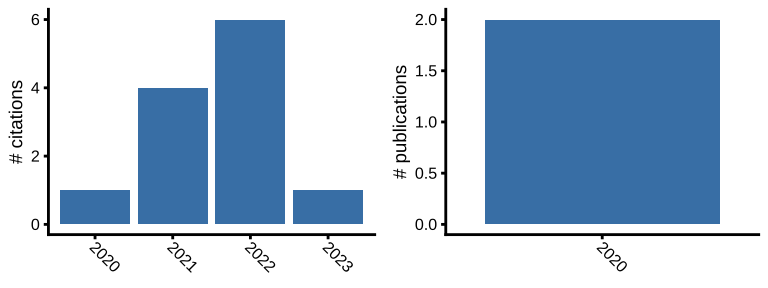
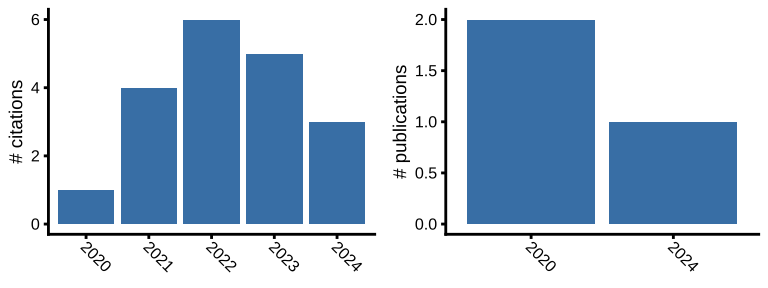
update 08/2024

diff --git a/publications.html b/publications.html
@@ -13,7 +13,7 @@
 
 <title>Publications</title>
 
-<script src="site_libs/header-attrs-2.25/header-attrs.js"></script>
+<script src="site_libs/header-attrs-2.27/header-attrs.js"></script>
 <script src="site_libs/jquery-3.6.0/jquery-3.6.0.min.js"></script>
 <meta name="viewport" content="width=device-width, initial-scale=1" />
 <link href="site_libs/bootstrap-3.3.5/css/cosmo.min.css" rel="stylesheet" />
@@ -337,7 +337,7 @@ $(document).ready(function () {
 <div class="publication">
 <table class="table table-striped table-hover" style="margin-left: auto; margin-right: auto;">
 <caption>
-22 publications (co-)authored by Dr. Lukas Schrader as of Oct 13 2023
+26 publications (co-)authored by Dr. Lukas Schrader as of Aug 19 2024
 (<a href="https://scholar.google.de/citations?user=sH4_TPkAAAAJ">google
 scholar</a>)
 </caption>
@@ -358,6 +358,66 @@ Year
 </tr>
 </thead>
 <tbody>
+<tr>
+<td style="text-align:left;">
+Evolutionary genomics of socially polymorphic populations of
+Pogonomyrmex californicus
+</td>
+<td style="text-align:left;">
+M Errbii, UR Ernst, A Lajmi, E Privman, J Gadau, L Schrader
+</td>
+<td style="text-align:left;">
+BMC biology
+</td>
+<td style="text-align:right;">
+2024
+</td>
+</tr>
+<tr>
+<td style="text-align:left;">
+Queen loss fails to elicit physiological and transcriptional responses
+in workers of the invasive garden ant Lasius neglectus
+</td>
+<td style="text-align:left;">
+M Majoe, N Stolarek, J Vizueta, Z Xiong, L Schrader, JJ Boomsma, …
+</td>
+<td style="text-align:left;">
+bioRxiv
+</td>
+<td style="text-align:right;">
+2024
+</td>
+</tr>
+<tr>
+<td style="text-align:left;">
+Causes and consequences of a complex recombinational landscape in the
+ant Cardiocondyla obscurior
+</td>
+<td style="text-align:left;">
+M Errbii, J Gadau, K Becker, L Schrader, J Oettler
+</td>
+<td style="text-align:left;">
+Genome Research
+</td>
+<td style="text-align:right;">
+2024
+</td>
+</tr>
+<tr>
+<td style="text-align:left;">
+Molecular identification of polymorphic transposable elements in
+populations of the invasive ant Cardiocondyla obscurior
+</td>
+<td style="text-align:left;">
+E Van Den Bos, J Gadau, L Schrader
+</td>
+<td style="text-align:left;">
+Biology Methods and Protocols
+</td>
+<td style="text-align:right;">
+2024
+</td>
+</tr>
 <tr>
 <td style="text-align:left;">
 The role of cuticular hydrocarbons in intraspecific aggression in the
@@ -427,7 +487,7 @@ species
 L Schrader, H Pan, M Bollazzi, M Schiøtt, FJ Larabee, X Bi, Y Deng, …
 </td>
 <td style="text-align:left;">
-Nature communications
+Nature Communications
 </td>
 <td style="text-align:right;">
 2021
@@ -451,21 +511,6 @@ Molecular Ecology
 </tr>
 <tr>
 <td style="text-align:left;">
-Genome assembly and annotation of the California harvester ant
-Pogonomyrmex californicus
-</td>
-<td style="text-align:left;">
-J Bohn, R Halabian, L Schrader, V Shabardina, R Steffen, Y Suzuki, …
-</td>
-<td style="text-align:left;">
-G
-</td>
-<td style="text-align:right;">
-2021
-</td>
-</tr>
-<tr>
-<td style="text-align:left;">
 Inhibition of HSP90 causes morphological variation in the invasive ant
 Cardiocondyla obscurior
 </td>
@@ -482,14 +527,14 @@ evolution
 </tr>
 <tr>
 <td style="text-align:left;">
-Genomic architecture and evolutionary dynamics of a social niche
-polymorphism in the California harvester ant, Pogonomyrmex californicus
+Genome assembly and annotation of the California harvester ant
+Pogonomyrmex californicus
 </td>
 <td style="text-align:left;">
-M Errbii, UR Ernst, A Lajmi, J Gadau, L Schrader
+J Bohn, R Halabian, L Schrader, V Shabardina, R Steffen, Y Suzuki, …
 </td>
 <td style="text-align:left;">
-bioRxiv
+G
 </td>
 <td style="text-align:right;">
 2021
@@ -592,7 +637,7 @@ differentiation cascade
 A Klein, E Schultner, H Lowak, L Schrader, J Heinze, L Holman, J Oettler
 </td>
 <td style="text-align:left;">
-PLoS Genetics
+PLoS genetics
 </td>
 <td style="text-align:right;">
 2016
@@ -687,6 +732,19 @@ The Plant cell
 2012
 </td>
 </tr>
+<tr>
+<td style="text-align:left;">
+17-DMAG
+</td>
+<td style="text-align:left;">
+L Schrader, M Winter, M Errbii, J Delabie, J Oettler, J Gadau
+</td>
+<td style="text-align:left;">
+</td>
+<td style="text-align:right;">
+NA
+</td>
+</tr>
 </tbody>
 </table>
 </div>
@@ -703,7 +761,7 @@ The Plant cell
 <div class="publication">
 <table class="table table-striped table-hover" style="margin-left: auto; margin-right: auto;">
 <caption>
-2 publications (co-)authored by Esther van den Bos as of Oct 13 2023 (<a
+3 publications (co-)authored by Esther van den Bos as of Aug 19 2024 (<a
 href="https://scholar.google.de/citations?user=KtFmcBIAAAAJ">google
 scholar</a>)
 </caption>
@@ -724,6 +782,21 @@ Year
 </tr>
 </thead>
 <tbody>
+<tr>
+<td style="text-align:left;">
+Molecular identification of polymorphic transposable elements in
+populations of the invasive ant cardiocondyla obscurior
+</td>
+<td style="text-align:left;">
+E Van Den Bos, J Gadau, L Schrader
+</td>
+<td style="text-align:left;">
+Biology Methods and Protocols, bpae
+</td>
+<td style="text-align:right;">
+2024
+</td>
+</tr>
 <tr>
 <td style="text-align:left;">
 Knockout mouse models reveal the contributions of G protein subunits to
@@ -751,6 +824,58 @@ JoVE (Journal of Visualized Experiments), e
 </td>
 <td style="text-align:right;">
 2020
+</td>
+</tr>
+</tbody>
+</table>
+</div>
+</div>
+</div>
+<div id="janina-rinke" class="section level3">
+<h3>Janina Rinke</h3>
+<div id="section-5" class="section level4">
+<h4></h4>
+<p><img src="publications_files/figure-html/unnamed-chunk-5-1.png" width="384" /></p>
+</div>
+<div id="section-6" class="section level4">
+<h4></h4>
+<div class="publication">
+<table class="table table-striped table-hover" style="margin-left: auto; margin-right: auto;">
+<caption>
+1 publications (co-)authored by Janina Rinke as of Aug 19 2024 (<a
+href="https://scholar.google.de/citations?user=VBvt6QYAAAAJ">google
+scholar</a>)
+</caption>
+<thead>
+<tr>
+<th style="text-align:left;">
+Title
+</th>
+<th style="text-align:left;">
+Authors
+</th>
+<th style="text-align:left;">
+Journal
+</th>
+<th style="text-align:right;">
+Year
+</th>
+</tr>
+</thead>
+<tbody>
+<tr>
+<td style="text-align:left;">
+Conserved worker policing in African carpenter ants with drastically
+different egg chemotypes
+</td>
+<td style="text-align:left;">
+J Buellesbach, J Rinke, L Reuter, JM Thomas, V Hartmann, M Pohl, …
+</td>
+<td style="text-align:left;">
+Evolutionary Ecology
+</td>
+<td style="text-align:right;">
+2023
 </td>
 </tr>
 </tbody>

diff --git a/index.html b/index.html
@@ -13,7 +13,7 @@
 
 <title>Welcome to the Insect Evolutionary Genomics lab at the University of Münster!</title>
 
-<script src="site_libs/header-attrs-2.18/header-attrs.js"></script>
+<script src="site_libs/header-attrs-2.27/header-attrs.js"></script>
 <script src="site_libs/jquery-3.6.0/jquery-3.6.0.min.js"></script>
 <meta name="viewport" content="width=device-width, initial-scale=1" />
 <link href="site_libs/bootstrap-3.3.5/css/cosmo.min.css" rel="stylesheet" />
@@ -32,8 +32,8 @@
 <script src="site_libs/navigation-1.1/tabsets.js"></script>
 <link href="site_libs/highlightjs-9.12.0/textmate.css" rel="stylesheet" />
 <script src="site_libs/highlightjs-9.12.0/highlight.js"></script>
-<link href="site_libs/font-awesome-5.1.0/css/all.css" rel="stylesheet" />
-<link href="site_libs/font-awesome-5.1.0/css/v4-shims.css" rel="stylesheet" />
+<link href="site_libs/font-awesome-6.4.2/css/all.min.css" rel="stylesheet" />
+<link href="site_libs/font-awesome-6.4.2/css/v4-shims.min.css" rel="stylesheet" />
 
 <style type="text/css">
   code{white-space: pre-wrap;}
@@ -345,6 +345,28 @@ Most of our research has so far focused on ants, while only a minority of my ong
 <div class="col-md-6">
 <div class="row">
 <p><img src="files/colony-c.png" width=100%></p>
+</div>
+<div class="row" style="border:1px solid black;">
+<div class="col-md-1">
+18.12.2023
+</div>
+<div class="col-md-6">
+Sandra defended her Master’s thesis on olfactory system evolution in
+ants. She will move on to do a PhD in Jena. Congrats!
+</div>
+&lt;br&lt;
+<div class="col-md-1">
+13.05.2022
+</div>
+<div class="col-md-6">
+Janina defended her Master’s thesis on horizontal gene transfers in ants
+and will continue as a PhD student. Congrats!
+</div>
+<p>28.01.2022 Our website has gone online. Check out our <a
+href="team.html">team</a> and an overview of all published <a
+href="publications.html">papers</a>. 05.01.2022 The DFG-funded project
+on “Transposable elements as genetic innovators in the invasive ant
+<em>Cardiocondyla obscurior</em>” will start soon!</p>
 </div>
 <br>
 <div class="row">

diff --git a/site_libs/header-attrs-2.27/header-attrs.js b/site_libs/header-attrs-2.27/header-attrs.js
@@ -1,0 +1,12 @@
+// Pandoc 2.9 adds attributes on both header and div. We remove the former (to
+// be compatible with the behavior of Pandoc < 2.8).
+document.addEventListener('DOMContentLoaded', function(e) {
+  var hs = document.querySelectorAll("div.section[class*='level'] > :first-child");
+  var i, h, a;
+  for (i = 0; i < hs.length; i++) {
+    h = hs[i];
+    if (!/^h[1-6]$/i.test(h.tagName)) continue;  // it should be a header h1-h6
+    a = h.attributes;
+    while (a.length > 0) h.removeAttribute(a[0].name);
+  }
+});
